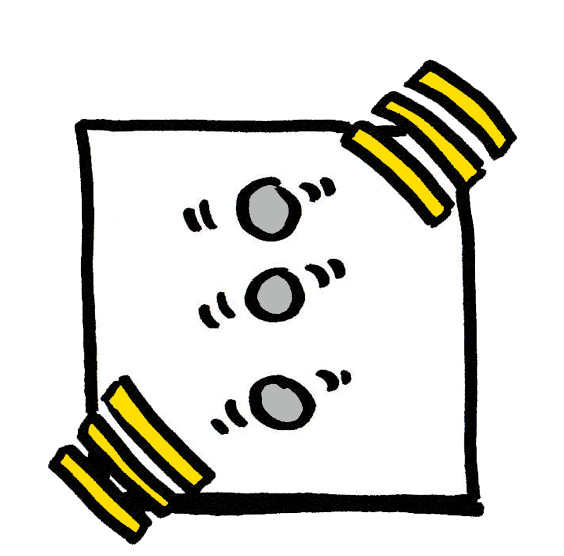
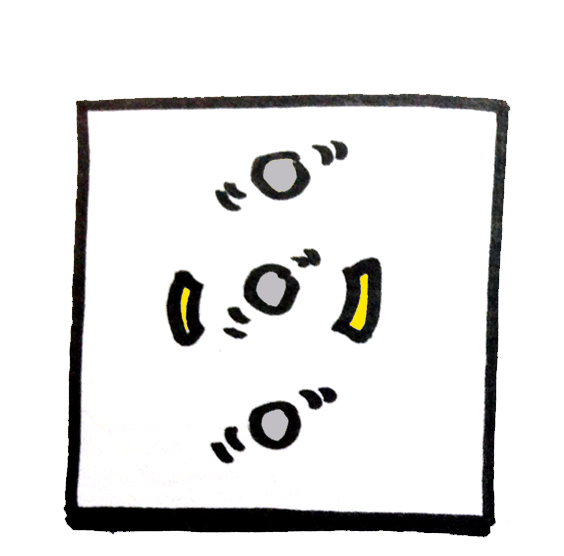
- Graphics updated and final sketches added

Changed region(s): [[0.0904, 0.0917, 0.9344, 0.9784]]

diff --git a/Server/public/js/dialogDataModel.js b/Server/public/js/dialogDataModel.js
@@ -301,19 +301,19 @@ function loadDataModel(sensorLabel, boxLabel) {
                                 settingArgs: [
                                     {
                                         argText: "<small><em>Little vibrations</em></small>",
-                                        imageURL: "ui/sketches/light3b_1.png"
+                                        imageURL: "ui/sketches/vibe2a.png"
                                     },
                                     {
                                         argText: "<small><em>Medium vibrations</em></small>",
-                                        imageURL: "ui/sketches/light3b_1.png"
+                                        imageURL: "ui/sketches/vibe2b.png"
                                     },
                                     {
                                         argText: "<small><em>Big vibrations</em></small>",
-                                        imageURL: "ui/sketches/light3b_1.png"
+                                        imageURL: "ui/sketches/vibe2c.png"
                                     },
                                     {
                                         argText: "<small><em>Huge vibrations</em></small>",
-                                        imageURL: "ui/sketches/light3b_1.png"
+                                        imageURL: "ui/sketches/vibe2d.png"
                                     }
                                 ]
                             }
